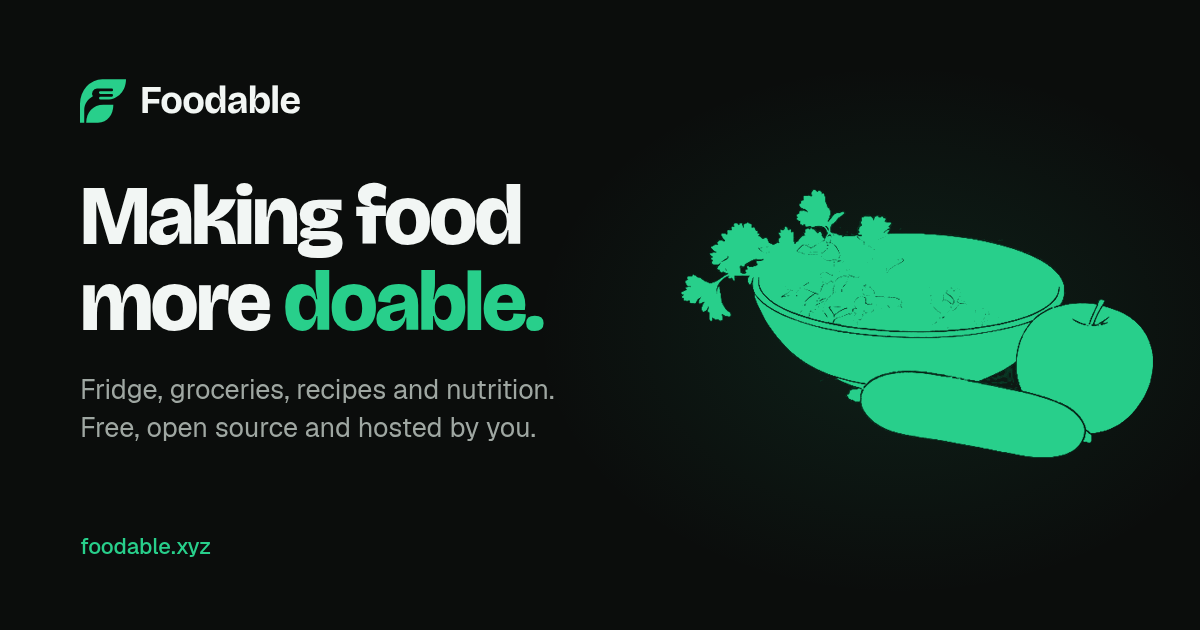
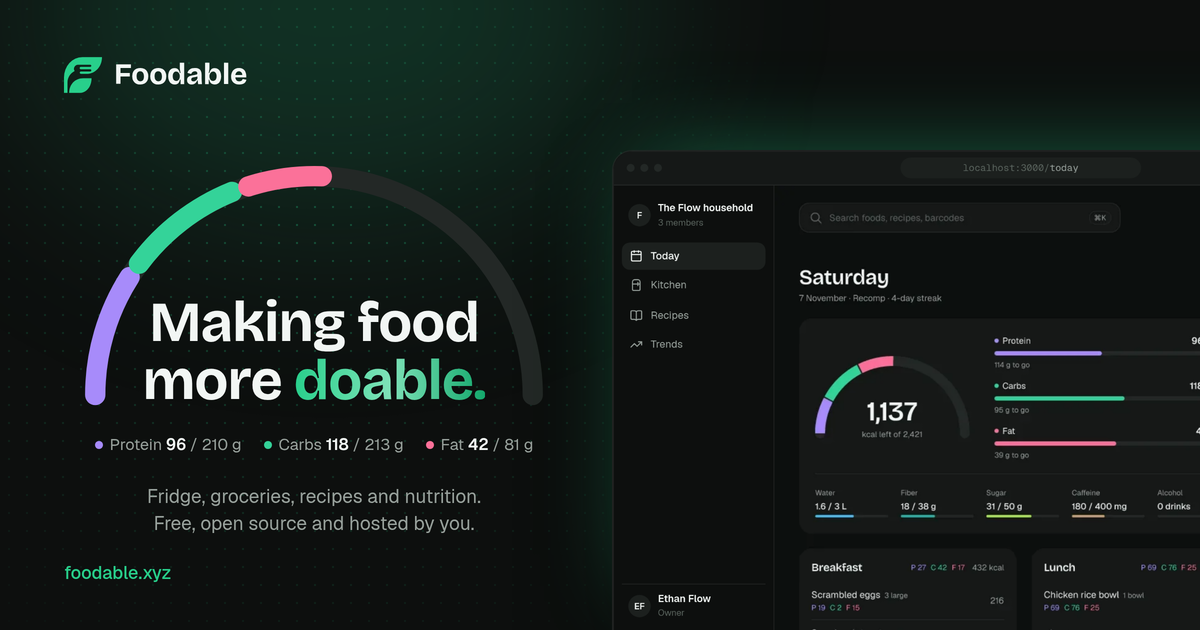
Plainer copy and a link preview from the new hero
Rewrites twelve lines that read like marketing filler in the house
voice (tour, story sign-off, loop, chat, features, self-host), and
replaces public/og.png with a 1200x630 card built from the redesigned
hero: the gauge headline beside the real app window, in dark.

diff --git a/src/components/site/self-host.tsx b/src/components/site/self-host.tsx
@@ -38,7 +38,7 @@ export function SelfHost() {
             Self-host
           </span>
           <h2 className="mt-3 text-[34px] leading-[1.05] font-bold text-balance md:text-[52px]">
-            Free forever. Running in an evening.
+            It&apos;s free. Setup takes an evening.
           </h2>
           <p className="mt-5 max-w-[52ch] text-base text-muted-foreground">
             Foodable isn’t a service you sign up for. It’s software you run for
@@ -76,7 +76,7 @@ export function SelfHost() {
               Give it to your agent
             </h3>
             <p className="mt-1 mb-4 text-sm text-muted-foreground">
-              Foodable ships a setup skill. Paste this into Claude Code, Codex
+              Foodable comes with a setup skill. Paste this into Claude Code, Codex
               or any agent that can run commands. It asks what accounts you
               have, runs the commands it can, and tells you what to click for
               the rest.
@@ -91,7 +91,7 @@ export function SelfHost() {
             />
           </div>
           <p className="mb-3 px-1 text-sm font-medium text-muted-foreground">
-            Rather do it yourself? It’s a handful of commands.
+            Doing it by hand is just a handful of commands.
           </p>
           <Terminal
             className="h-auto max-h-none w-full max-w-none overflow-x-auto rounded-[20px] border-line bg-raised text-muted-foreground [&_.rounded-full]:bg-track [&_pre]:min-h-[268px] [&_pre]:px-5 [&_pre]:py-4"

diff --git a/src/components/site/chat.tsx b/src/components/site/chat.tsx
@@ -158,12 +158,12 @@ export function Chat() {
             In your assistant
           </span>
           <h2 className="mt-3 max-w-[16ch] text-[34px] leading-[1.05] font-bold text-balance md:text-[52px]">
-            Say it. It&apos;s done.
+            Just ask.
           </h2>
           <p className="mt-4 max-w-[36ch] text-lg text-muted-foreground">
-            Connect Claude, Grok or any MCP client. It reads the fridge, fills
-            the list and logs dinner, and answers with Foodable&apos;s own
-            cards, in light or dark to match your chat.
+            Hook up Claude, Grok or any other MCP client. It can check the
+            fridge, add to the list and log dinner. And it answers with
+            Foodable&apos;s own cards, light or dark to match your chat.
           </p>
           <div className="mt-7 flex gap-7">
             <Fact value={73} label="tools" count={hydrated && !reduced} />

diff --git a/src/components/site/loop.tsx b/src/components/site/loop.tsx
@@ -13,19 +13,19 @@ const STEPS = [
     label: "02 · Kitchen",
     dot: "bg-carbs",
     title: "Put it away",
-    body: "Check items off and they land in the fridge or pantry, with an eye on what expires first.",
+    body: "Check items off and they land in the fridge or pantry, and the ones expiring soonest show first.",
   },
   {
     label: "03 · Recipes",
     dot: "bg-fat",
     title: "Cook it",
-    body: "Cook a recipe and the ingredients come out of stock. Short on something? It goes on the list.",
+    body: "Cook a recipe and the ingredients come out of stock. Whatever you're short on goes on the list.",
   },
   {
     label: "04 · Today",
     dot: "bg-kcal",
     title: "Eat it",
-    body: "Log your portion and the real nutrition follows, per person, against each of your goals.",
+    body: "Log what you ate and it counts toward your own goals. Everyone in the house has their own.",
   },
 ];
 

diff --git a/src/components/site/features.tsx b/src/components/site/features.tsx
@@ -79,7 +79,7 @@ export function Features() {
             Features
           </span>
           <h2 className="mt-3 max-w-[22ch] text-[34px] leading-[1.05] font-bold text-balance md:text-[52px]">
-            Everything the kitchen needs. Nothing it doesn’t.
+            The stuff we actually use, every day.
           </h2>
         </Reveal>
 
@@ -248,7 +248,7 @@ export function Features() {
             >
               <div className="flex h-full flex-col items-start gap-4 p-[26px] lg:flex-row lg:items-center lg:gap-8">
                 <div>
-                  <h3 className="text-xl font-bold">Your data, your way</h3>
+                  <h3 className="text-xl font-bold">Take your data with you</h3>
                   <p className="mt-1.5 text-sm text-muted-foreground">
                     Export a ZIP of plain CSVs anytime. Bring your history in
                     from other apps.

diff --git a/src/components/site/tour.tsx b/src/components/site/tour.tsx
@@ -143,7 +143,7 @@ export function Tour() {
         <Reveal inView>
           <div className="flex flex-col items-start justify-between gap-5 md:flex-row md:items-end md:gap-5">
             <h2 className="max-w-[16ch] text-[34px] leading-[1.05] font-bold md:text-[52px]">
-              One app, four rooms of the kitchen.
+              One app for the whole kitchen.
             </h2>
             <div
               role="tablist"

diff --git a/src/components/site/story.tsx b/src/components/site/story.tsx
@@ -34,7 +34,7 @@ export function Story() {
             </strong>{" "}
             We use it every day. It’s free, and it’s yours to run.
           </p>
-          <p className="text-[15px] text-faint">— Ethan &amp; family</p>
+          <p className="text-[15px] text-faint">Ethan &amp; family</p>
         </div>
       </Reveal>
     </section>
